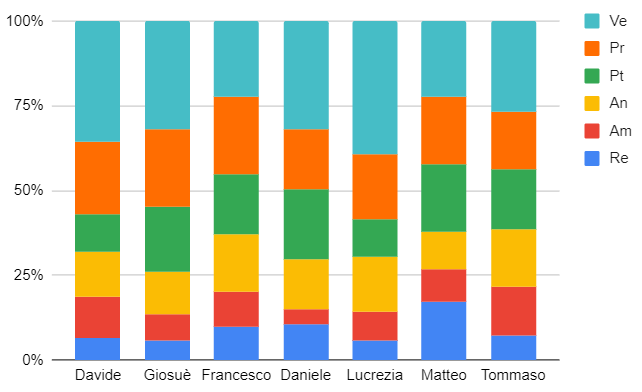
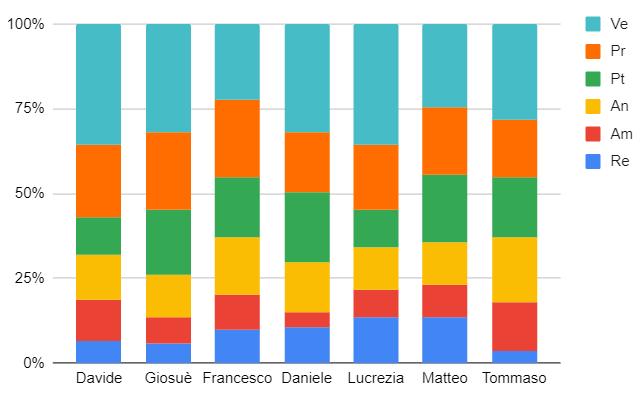
fix Re

diff --git a/Esterni/PianoProgetto/components/preventivo.tex b/Esterni/PianoProgetto/components/preventivo.tex
@@ -30,9 +30,9 @@ In questa fase, ogni componente del gruppo rivestirà i seguenti ruoli:
 				Giosuè Calgaro      & -  & 8  & 17 & - & - & 5  & 30 \\
 				Francesco De Marchi & 9  & 4  & 10 & - & - & 7  & 30\\
 				Daniele Giachetto   & 10 & -  & 10 & - & - & 10 & 30\\
-				Lucrezia Gradi      & -  & 3 & 12 & - & - & 15 & 30\\
-				Matteo Pagotto      & 5  & 5  & 10 & - & - & 10 & 30\\
-				Tommaso Poppi       & 5  & 7  & 10 & - & - & 8  & 30\\
+				Lucrezia Gradi      & 10  & 3 & 7 & - & - & 10 & 30\\
+				Matteo Pagotto      & -  & 5  & 12 & - & - & 13 & 30\\
+				Tommaso Poppi       & -  & 7  & 13 & - & - & 10  & 30\\
 				 \textbf{Ore totali} & \textbf{29} & \textbf{32} & \textbf{84} & \textbf{-} & \textbf{-} & \textbf{65} & \textbf{210} \\
 				\bottomrule
 			\end{tabular}
@@ -354,7 +354,7 @@ Nella seguente tabella vengono riportate il totale delle ore del progetto, sono 
 				Lucrezia Gradi      & 8 & 11 & 22 & 15 & 26 & 53 & 135\\
 				Matteo Pagotto      & 23 & 13 & 15 & 27 & 27 & 30 & 135\\
 				Tommaso Poppi       & 10 & 19 & 23 & 24 & 23 & 36 & 135\\
-				 \textbf{Ore totali} & \textbf{76} & \textbf{73} & \textbf{120} & \textbf{144} & \textbf{162} & \textbf{235} & \textbf{945} \\
+				 \textbf{Ore totali} & \textbf{85} & \textbf{89} & \textbf{138} & \textbf{159} & \textbf{191} & \textbf{283} & \textbf{945} \\
 				\bottomrule
 			\end{tabular}
 			\caption{ Distribuzione delle ore totali di investimento e rendicontate}
